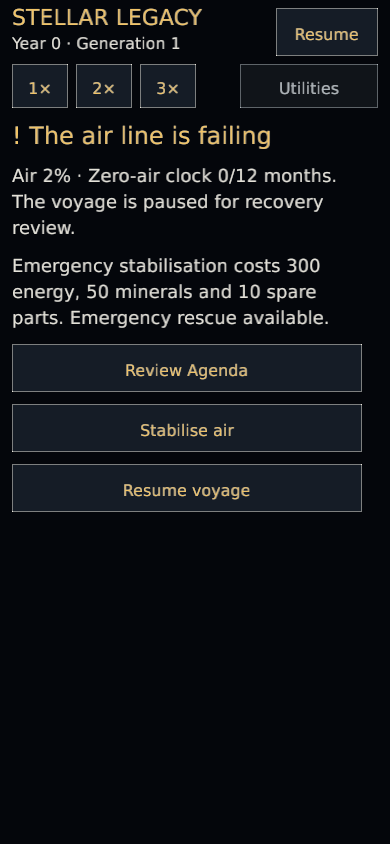
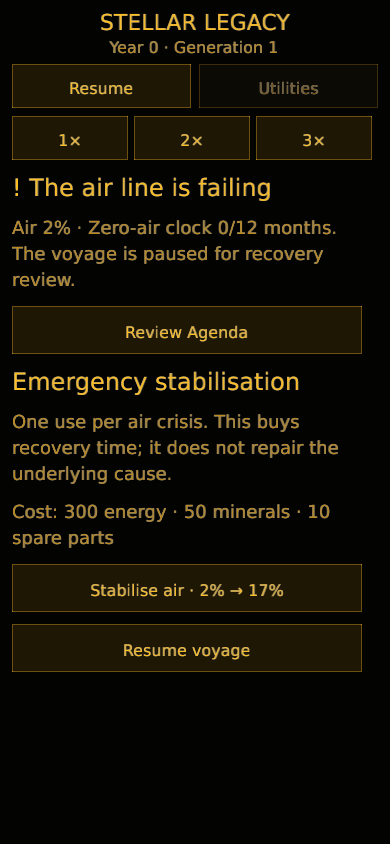
The air rescue respects the stores it promises (emergency recovery UX)
Recovery buttons could appear available without the required supplies, and
Readiness could spend emergency stores at full air. Share authoritative
availability between the action and every recovery button. Compact reviews
now disclose the complete price, resulting air level and per-crisis limit.

All 548 tests passed with one ignored, including no-spend and availability
regressions. Clippy and source-size checks passed. Reviewed recovery captures
at reading and phone widths. The default publisher passed Windows and WebGL.

diff --git a/src/ui/recovery_warning.rs b/src/ui/recovery_warning.rs
@@ -37,10 +37,10 @@ pub fn draw(ctx: &GameplayCtx<'_>, pointer: Pointer, actions: &mut Vec<UiAction>
             "ZERO-AIR CLOCK: {}/{} months · EMERGENCY: {}",
             ctx.sim.survival.air_zero_months,
             ctx.data.config.survival.air_grace_months,
-            if ctx.sim.survival.emergency_used {
-                "USED"
-            } else {
+            if crate::simulation::survival::emergency_availability(ctx.sim, ctx.data).is_ok() {
                 "AVAILABLE"
+            } else {
+                "UNAVAILABLE"
             }
         ),
         content.x,
@@ -58,7 +58,14 @@ pub fn draw(ctx: &GameplayCtx<'_>, pointer: Pointer, actions: &mut Vec<UiAction>
         content.y + 150.0,
         TextStyle::new(12.0, term::faint()).params(),
     );
-    if let Some(notice) = &ctx.sim.survival.migration_notice {
+    let unavailable = crate::simulation::survival::emergency_availability(ctx.sim, ctx.data).err();
+    if let Some(notice) = ctx
+        .sim
+        .survival
+        .migration_notice
+        .as_ref()
+        .or(unavailable.as_ref())
+    {
         draw_text_block(
             notice,
             content.x,
@@ -80,7 +87,7 @@ pub fn draw(ctx: &GameplayCtx<'_>, pointer: Pointer, actions: &mut Vec<UiAction>
     if term_button(
         rescue,
         "STABILISE AIR",
-        !ctx.sim.survival.emergency_used,
+        crate::simulation::survival::emergency_availability(ctx.sim, ctx.data).is_ok(),
         pointer,
     ) {
         actions.push(UiAction::EmergencyStabilise);
@@ -88,4 +95,44 @@ pub fn draw(ctx: &GameplayCtx<'_>, pointer: Pointer, actions: &mut Vec<UiAction>
     if term_button(resume, "RESUME VOYAGE", true, pointer) {
         actions.push(UiAction::ResumeAfterWarning);
     }
+}
+
+pub(crate) fn build_stabilisation(ctx: &GameplayCtx<'_>, form: &mut crate::ui::mobile::form::Form) {
+    let cfg = &ctx.data.config.survival;
+    let cost = &cfg.emergency_resource_cost;
+    form.heading("Emergency stabilisation");
+    form.text(
+        "One use per air crisis. This buys recovery time; it does not repair the underlying cause.",
+    );
+    let price = [
+        ("credits", cost.credits),
+        ("energy", cost.energy),
+        ("minerals", cost.minerals),
+        ("food", cost.food),
+        ("influence", cost.influence),
+        ("spare parts", cfg.emergency_parts_cost),
+    ]
+    .into_iter()
+    .filter(|(_, amount)| *amount > 0)
+    .map(|(unit, amount)| format!("{amount} {unit}"))
+    .collect::<Vec<_>>()
+    .join(" · ");
+    form.text(&format!(
+        "Cost: {}",
+        if price.is_empty() { "Free" } else { &price }
+    ));
+    let available = crate::simulation::survival::emergency_availability(ctx.sim, ctx.data);
+    if let Err(reason) = &available {
+        form.text(reason);
+    }
+    let target = (ctx.sim.ship.life_support + cfg.emergency_air_gain).clamp(0.0, 1.0);
+    form.action(
+        &format!(
+            "Stabilise air · {:.0}% → {:.0}%",
+            ctx.sim.ship.life_support * 100.0,
+            target * 100.0
+        ),
+        available.is_ok(),
+        UiAction::EmergencyStabilise,
+    );
 }

diff --git a/src/simulation/survival.rs b/src/simulation/survival.rs
@@ -112,7 +112,7 @@ pub fn resume_after_warning(sim: &mut SimState) {
 
 /// One bounded stabilisation per air crisis. It is intentionally available at
 /// zero expertise: recovery must not deadlock behind the training project.
-pub fn emergency_stabilise(sim: &mut SimState, data: &GameData) -> Result<(), String> {
+pub fn emergency_availability(sim: &SimState, data: &GameData) -> Result<(), String> {
     if sim.terminal.is_some() {
         return Err("The vessel is already lost; no recovery action remains.".to_owned());
     }
@@ -120,6 +120,9 @@ pub fn emergency_stabilise(sim: &mut SimState, data: &GameData) -> Result<(), St
         return Err(
             "The emergency stabiliser has already been used in this air crisis.".to_owned(),
         );
+    }
+    if sim.ship.life_support >= 1.0 {
+        return Err("Air is already at 100%; emergency stores are not needed.".to_owned());
     }
     let cfg = &data.config.survival;
     let cost = ResourceDelta {
@@ -138,6 +141,19 @@ pub fn emergency_stabilise(sim: &mut SimState, data: &GameData) -> Result<(), St
             cfg.emergency_parts_cost
         ));
     }
+    Ok(())
+}
+
+pub fn emergency_stabilise(sim: &mut SimState, data: &GameData) -> Result<(), String> {
+    emergency_availability(sim, data)?;
+    let cfg = &data.config.survival;
+    let cost = ResourceDelta {
+        credits: -cfg.emergency_resource_cost.credits,
+        energy: -cfg.emergency_resource_cost.energy,
+        minerals: -cfg.emergency_resource_cost.minerals,
+        food: -cfg.emergency_resource_cost.food,
+        influence: -cfg.emergency_resource_cost.influence,
+    };
     sim.resources.apply(&cost);
     sim.ship.spare_parts -= cfg.emergency_parts_cost;
     sim.ship.life_support = (sim.ship.life_support + cfg.emergency_air_gain).clamp(0.0, 1.0);

diff --git a/src/simulation/survival/tests.rs b/src/simulation/survival/tests.rs
@@ -58,6 +58,33 @@ fn emergency_stabilisation_is_one_use_and_restores_air() {
 }
 
 #[test]
+fn full_air_cannot_spend_emergency_stores() {
+    let (data, mut sim) = campaign();
+    let resources = serde_json::to_value(sim.resources).unwrap();
+    let parts = sim.ship.spare_parts;
+    assert!(emergency_availability(&sim, &data).is_err());
+    assert!(emergency_stabilise(&mut sim, &data).is_err());
+    assert_eq!(serde_json::to_value(sim.resources).unwrap(), resources);
+    assert_eq!(sim.ship.spare_parts, parts);
+    assert!(!sim.survival.emergency_used);
+}
+
+#[test]
+fn emergency_availability_matches_missing_stores_and_used_rescue() {
+    let (data, mut sim) = campaign();
+    sim.ship.life_support = 0.1;
+    sim.ship.spare_parts = 0;
+    assert!(emergency_availability(&sim, &data).is_err());
+    sim.ship.spare_parts = data.config.survival.emergency_parts_cost;
+    sim.resources.energy = 0;
+    assert!(emergency_availability(&sim, &data).is_err());
+    sim.resources.energy = data.config.survival.emergency_resource_cost.energy;
+    assert!(emergency_availability(&sim, &data).is_ok());
+    emergency_stabilise(&mut sim, &data).unwrap();
+    assert!(emergency_availability(&sim, &data).is_err());
+}
+
+#[test]
 fn observing_damage_does_not_spend_air_grace() {
     let (data, mut sim) = campaign();
     sim.ship.life_support = 0.0;

diff --git a/src/ui/mobile/decisions.rs b/src/ui/mobile/decisions.rs
@@ -69,17 +69,11 @@ pub(super) fn build(ctx: &GameplayCtx<'_>, f: &mut Form) -> Option<String> {
             sim.survival.air_zero_months,
             ctx.data.config.survival.air_grace_months
         ));
-        let cost = &ctx.data.config.survival.emergency_resource_cost;
-        f.text(&format!("Emergency stabilisation costs {} energy, {} minerals and {} spare parts. Emergency rescue {}.",cost.energy,cost.minerals,ctx.data.config.survival.emergency_parts_cost,if sim.survival.emergency_used{"already used"}else{"available"}));
         if let Some(notice) = &sim.survival.migration_notice {
             f.text(notice);
         }
         f.action_section("Review Agenda", UiAction::ReviewRecovery, "readiness");
-        f.action(
-            "Stabilise air",
-            !sim.survival.emergency_used,
-            UiAction::EmergencyStabilise,
-        );
+        crate::ui::recovery_warning::build_stabilisation(ctx, f);
         f.action("Resume voyage", true, UiAction::ResumeAfterWarning);
         return Some("recovery".to_owned());
     }

diff --git a/src/ui/mobile/ship.rs b/src/ui/mobile/ship.rs
@@ -75,14 +75,7 @@ fn agenda(ctx: &GameplayCtx<'_>, f: &mut Form, section: &str) {
                 response(ctx, f, &id, row.recommended_target);
             }
         }
-        if !sim.survival.emergency_used {
-            let cost = &ctx.data.config.survival.emergency_resource_cost;
-            f.text(&format!(
-                "Emergency stabilisation: {} energy, {} minerals, {} spare parts.",
-                cost.energy, cost.minerals, ctx.data.config.survival.emergency_parts_cost
-            ));
-            f.action("Stabilise air", true, UiAction::EmergencyStabilise);
-        }
+        crate::ui::recovery_warning::build_stabilisation(ctx, f);
         f.heading("Persistent aftermath");
         for issue in &sim.issues.active {
             f.text(&format!(

diff --git a/src/ui/agenda/readiness_panel.rs b/src/ui/agenda/readiness_panel.rs
@@ -46,7 +46,12 @@ pub(super) fn draw_readiness(
             {
                 let cfg = &ctx.data.config.survival;
                 let button = Rect::new(rect.x, rect.y + 82.0, rect.w, 60.0);
-                if term_button(button, "STABILISE AIR", true, pointer) {
+                if term_button(
+                    button,
+                    "STABILISE AIR",
+                    crate::simulation::survival::emergency_availability(ctx.sim, ctx.data).is_ok(),
+                    pointer,
+                ) {
                     actions.push(UiAction::EmergencyStabilise);
                 }
                 draw_ui_text_ex(

diff --git a/gdd.md b/gdd.md
@@ -291,6 +291,9 @@ Recovered fittings use authored names, identify the replaced part and explain
 installation costs, engineer requirements and drydock-only restrictions.
 The compact drydock catalogue marks installed and recovered parts, quotes every
 resource cost and distinguishes component fitting from hull commissioning.
+Emergency stabilisation controls share the action's availability check and cannot
+spend stores at full air. Compact recovery reviews show costs, the resulting air
+level and the one-use-per-crisis limit before the action.
 Utilities contains Save game, Help, Display & sound and Return to menu.
 Pause/Resume and speed controls remain reachable above blocking decisions.
 Responsive and phone navigation underline the active destination and section;
